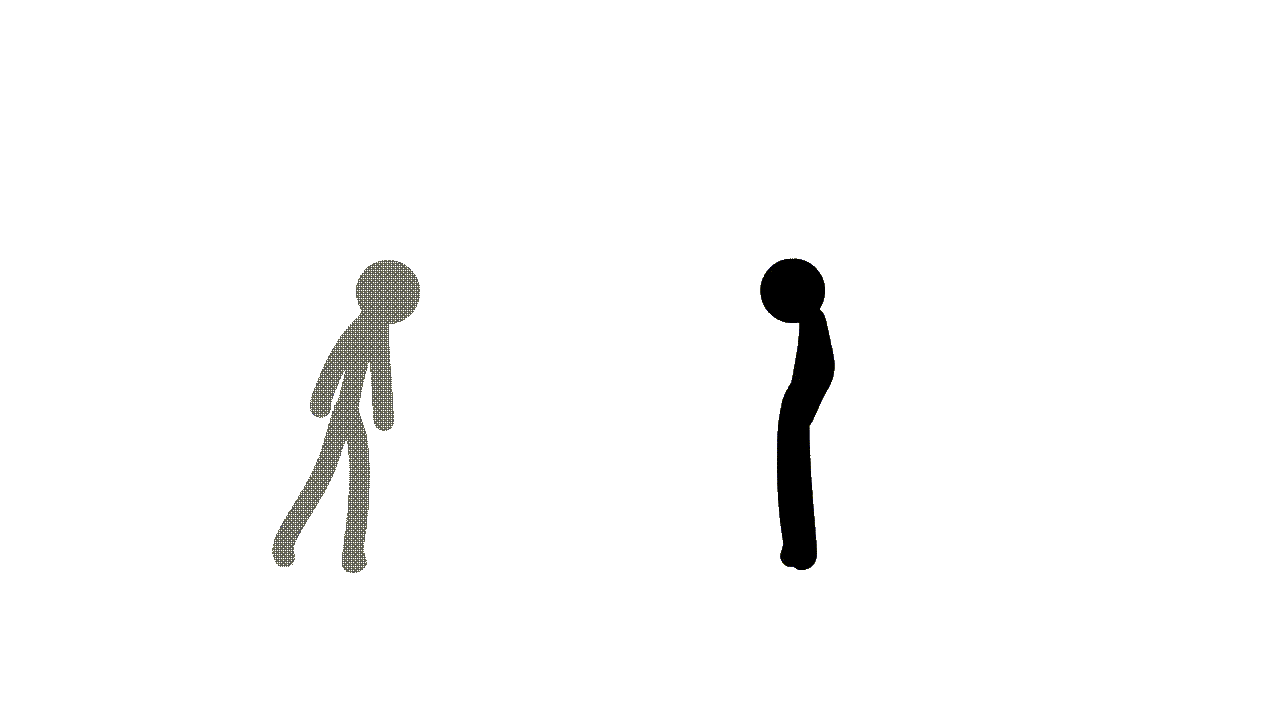
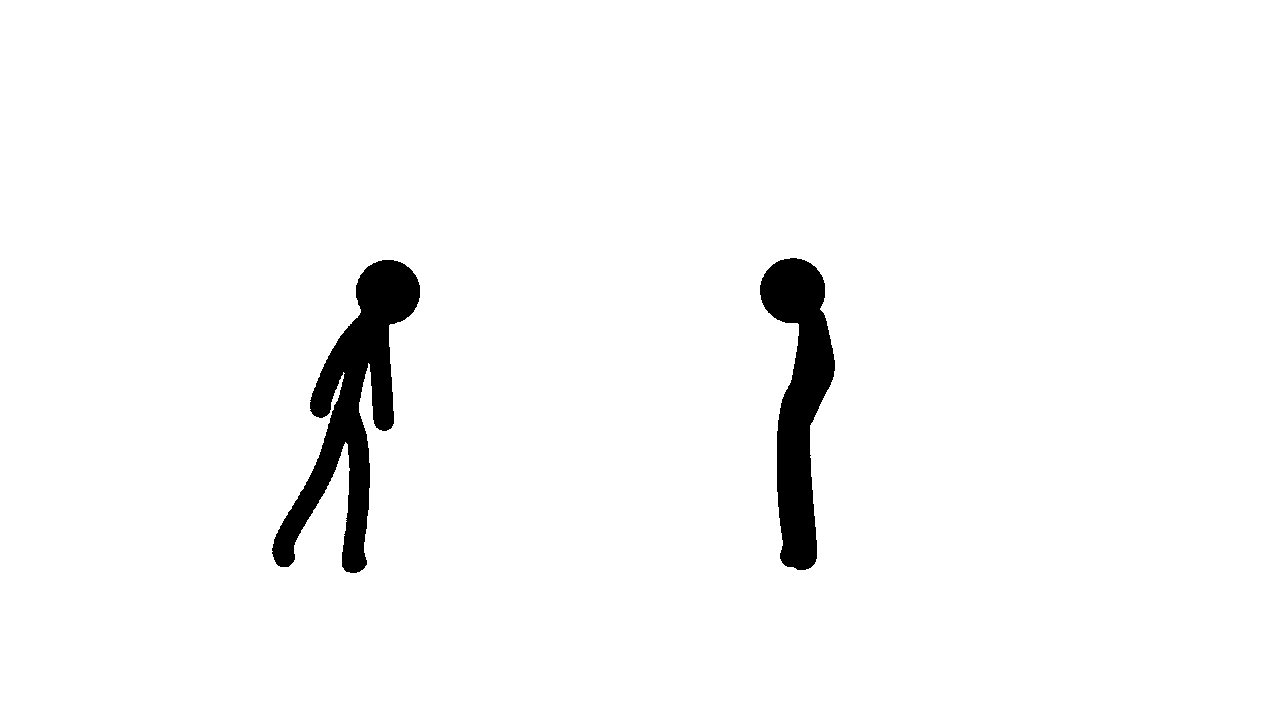
.

Changed region(s): [[0.1875, 0.3667, 0.3438, 0.7944]]

diff --git a/main.go b/main.go
@@ -8,6 +8,7 @@ import (
 	"image/png"
 	"io/fs"
 	"log"
+	"math"
 	"os"
 	"path/filepath"
 	"strings"
@@ -75,6 +76,69 @@ func main() {
 			}
 
 			dstImg.Set(x, y, dst)
+		}
+	}
+
+	// 消除锯齿
+	for x := 1; x < w-1; x++ {
+		for y := 1; y < h-1; y++ {
+			src := dstImg.At(x, y)
+
+			_, _, _, a := src.RGBA()
+			if a == 0xffff {
+				dstImg.Set(x, y, color.Black)
+				continue
+			}
+
+			var sum int
+			for x0 := x - 1; x0 <= x+1; x0++ {
+				for y0 := y - 1; y0 <= y+1; y0++ {
+					if x0 == x && y0 == y {
+						continue
+					}
+
+					_, _, _, a0 := dstImg.At(x0, y0).RGBA()
+					if a0 == 0xffff {
+						sum += 1
+					}
+				}
+			}
+
+			if sum >= 5 {
+				dstImg.Set(x, y, color.Black)
+			}
+		}
+	}
+
+	// 消除噪音
+	for x := 1; x < w-1; x++ {
+		for y := 1; y < h-1; y++ {
+			src := dstImg.At(x, y)
+
+			_, _, _, a := src.RGBA()
+			if a != 0xffff {
+				continue
+			}
+
+			for i := 1; i <= 8; i++ {
+				var sum int
+				for x0 := x - i; x0 <= x+i; x0++ {
+					for y0 := y - i; y0 <= y+i; y0++ {
+						if x0 == x && y0 == y {
+							continue
+						}
+
+						_, _, _, a0 := dstImg.At(x0, y0).RGBA()
+						if a0 == 0xffff {
+							sum += 1
+						}
+					}
+				}
+
+				if sum <= int(math.Floor(0.25*float64(i*i*4))) {
+					dstImg.Set(x, y, color.RGBA{A: 0})
+				}
+			}
 		}
 	}
 
